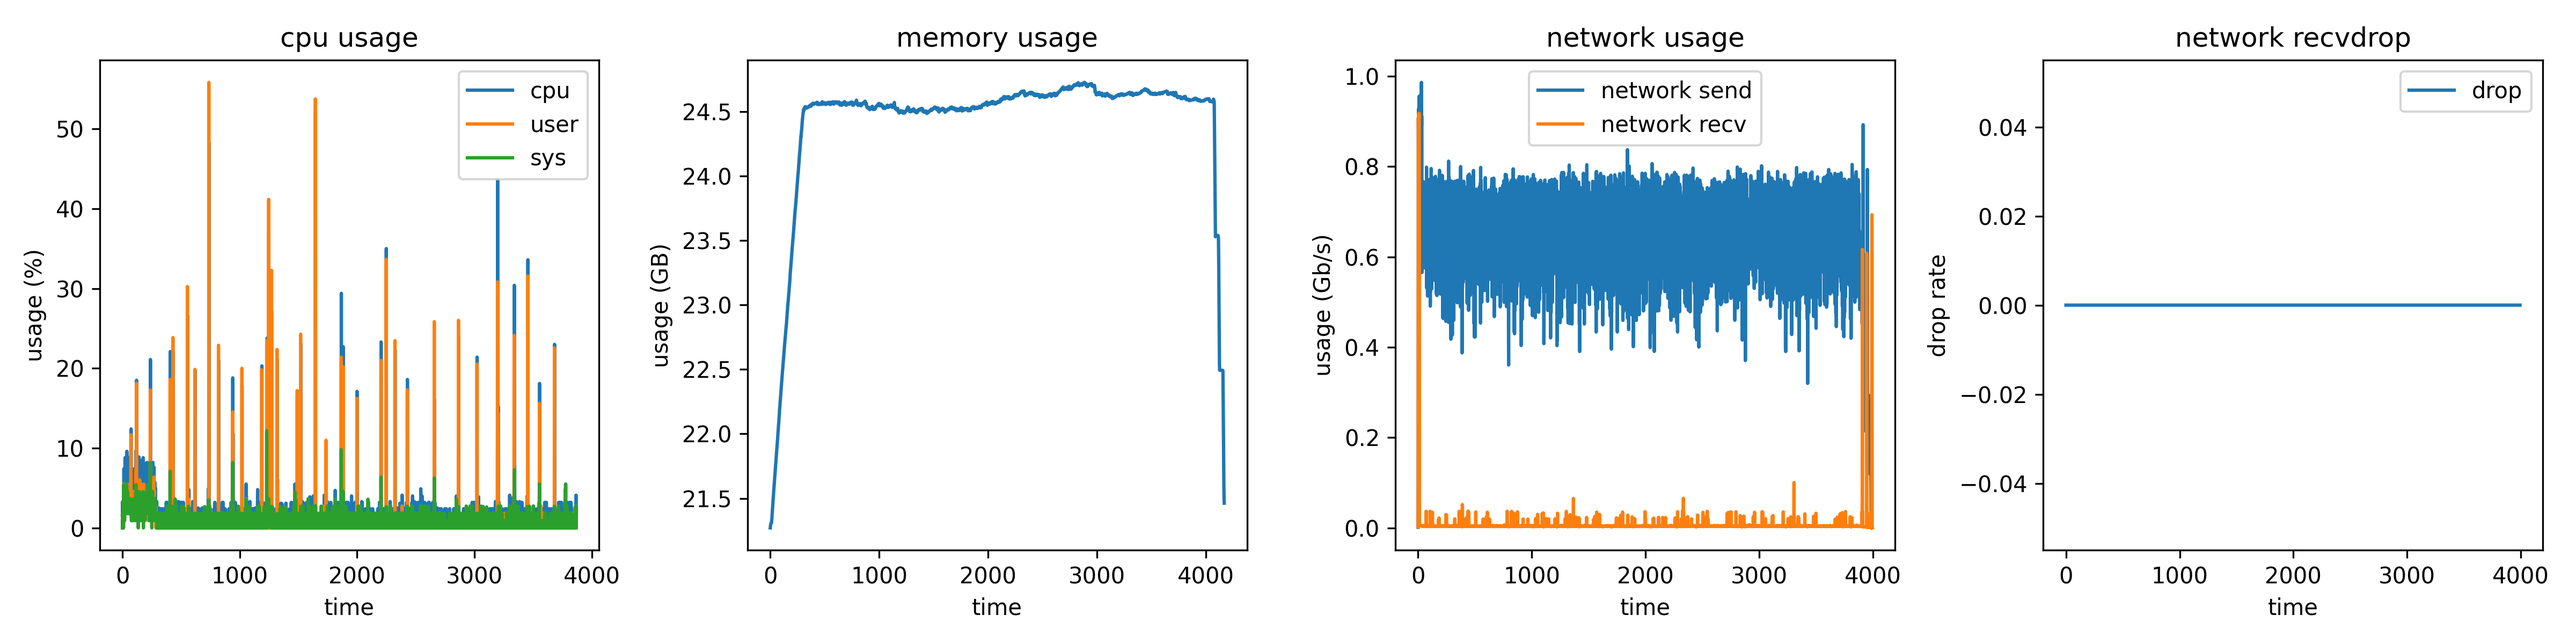
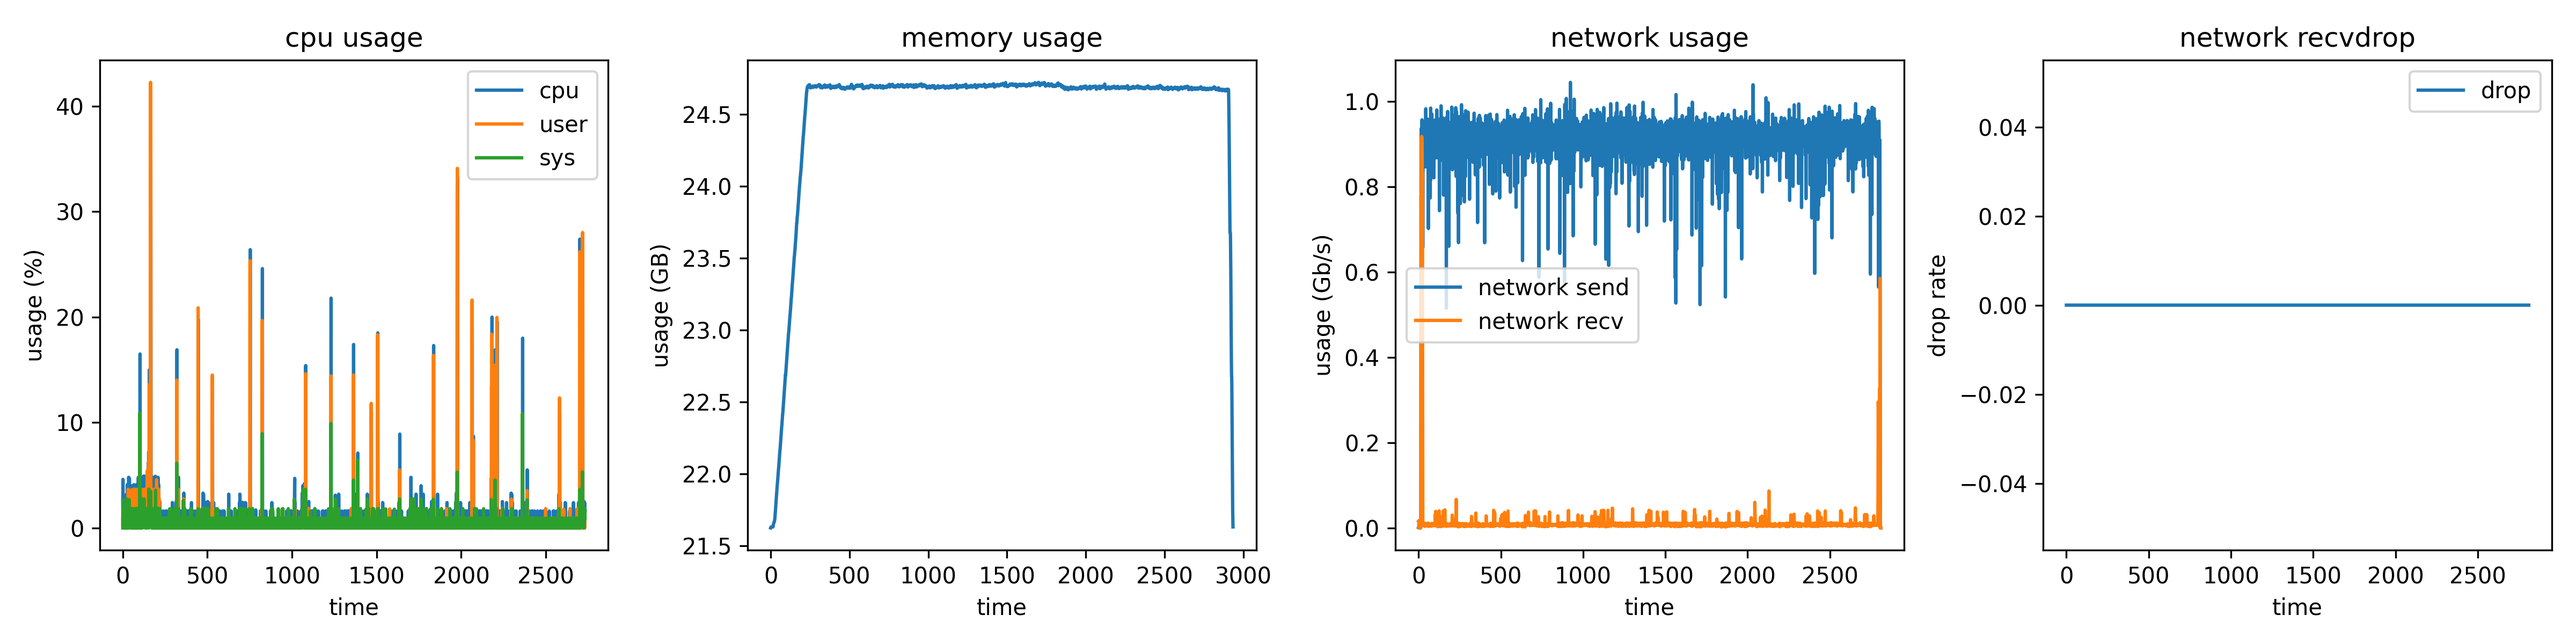
fix mat mul

diff --git a/aby3-Basic/Matrix.cpp b/aby3-Basic/Matrix.cpp
@@ -3,58 +3,66 @@
 using namespace oc;
 using namespace aby3;
 
+// int fixed_matrix_mult(sf64Matrix<D8>& A, sf64Matrix<D8>& B, sf64Matrix<D8>& C, int pIdx, Sh3Encryptor& enc, Sh3Evaluator& eval, Sh3Runtime& runtime) {
+//     if (A.cols() != B.rows() || A.rows() != C.rows() || B.cols() != C.cols()) {
+//         THROW_RUNTIME_ERROR("Matrix dimensions do not match.");
+//     }
+
+//     std::vector<sf64Matrix<D8>> sharedRow(A.rows()),
+//                                 sharedCol(B.cols());
+
+//     for(u64 i = 0; i < A.rows(); ++i) {
+//         sharedRow[i] = sf64Matrix<D8>(A.cols(), 1);
+//         for(u64 j = 0; j < A.cols(); ++j)
+//             sharedRow[i](j, 0, A(i, j));
+//     }
+
+//     for(u64 i = 0; i < B.cols(); ++i) {
+//         sharedCol[i] = sf64Matrix<D8>(A.cols(), 1);
+//         for(u64 j = 0; j < A.cols(); ++j)
+//             sharedCol[i](j, 0, B(j, i));
+//     }
+
+//     for(u64 i = 0; i < A.rows(); ++i)
+//         for(u64 j = 0; j < B.cols(); ++j) {
+//             sf64Matrix<D8> sharedProd;
+//             eval.asyncMul(runtime, sharedRow[i], sharedCol[j], sharedProd).get();
+//             sf64<D8> sum = sharedProd(0, 0);
+//             for(u64 k = 1; k < A.cols(); ++k)
+//                 sum = sum + sharedProd(k, 0);
+//             C(i, j, sum);
+//         }
+    
+//     return 0;
+// }
+
 int fixed_matrix_mult(sf64Matrix<D8>& A, sf64Matrix<D8>& B, sf64Matrix<D8>& C, int pIdx, Sh3Encryptor& enc, Sh3Evaluator& eval, Sh3Runtime& runtime) {
     if (A.cols() != B.rows() || A.rows() != C.rows() || B.cols() != C.cols()) {
         THROW_RUNTIME_ERROR("Matrix dimensions do not match.");
     }
 
-    std::vector<sf64Matrix<D8>> sharedRow(A.rows()),
-                                sharedCol(B.cols());
-
-    for(u64 i = 0; i < A.rows(); ++i) {
-        sharedRow[i] = sf64Matrix<D8>(A.cols(), 1);
-        for(u64 j = 0; j < A.cols(); ++j)
-            sharedRow[i](j, 0, A(i, j));
-    }
-
+    sf64Matrix<D8> paddedA(A.rows() * A.cols(), 1);
     for(u64 i = 0; i < B.cols(); ++i) {
-        sharedCol[i] = sf64Matrix<D8>(A.cols(), 1);
-        for(u64 j = 0; j < A.cols(); ++j)
-            sharedCol[i](j, 0, B(j, i));
-    }
-
-    for(u64 i = 0; i < A.rows(); ++i)
-        for(u64 j = 0; j < B.cols(); ++j) {
-            sf64Matrix<D8> sharedProd;
-            eval.asyncMul(runtime, sharedRow[i], sharedCol[j], sharedProd).get();
-            sf64<D8> sum = sharedProd(0, 0);
-            for(u64 k = 1; k < A.cols(); ++k)
-                sum = sum + sharedProd(k, 0);
-            C(i, j, sum);
-        }
-    
-    return 0;
-}
-
-int fixed_matrix_mult_fault(sf64Matrix<D8>& A, sf64Matrix<D8>& B, sf64Matrix<D8>& C, int pIdx, Sh3Encryptor& enc, Sh3Evaluator& eval, Sh3Runtime& runtime) {
-    if (A.cols() != B.rows() || A.rows() != C.rows() || B.cols() != C.cols()) {
-        THROW_RUNTIME_ERROR("Matrix dimensions do not match.");
-    }
-
-    for(u64 i = 0; i < B.cols(); ++i) {
-        sf64Matrix<D8> repeatCol(A.rows(), A.cols());
+        sf64Matrix<D8> repeatCol(A.rows() * A.cols(), 1);
         for(u64 j = 0; j < A.rows(); ++j)
             for(u64 k = 0; k < A.cols(); ++k)
-                repeatCol(j, k, B(k, i));
+                repeatCol(j * A.cols() + k, 0, B(k, i));
         sf64Matrix<D8> sharedProd;
-        eval.asyncMul(runtime, A, repeatCol, sharedProd).get();
+        // std::cerr << paddedA.rows() << " " << paddedA.cols() << " " << repeatCol.rows() << " " << repeatCol.cols() << std::endl;
+        eval.asyncMul(runtime, paddedA, repeatCol, sharedProd).get();
+        // std::cerr << sharedProd.rows() << " " << sharedProd.cols() << std::endl;
+        // auto start_time = std::chrono::high_resolution_clock::now();
         for(u64 j = 0; j < A.rows(); ++j) {
-            sf64<D8> sum = sharedProd(j, 0);
+            sf64<D8> sum = sharedProd(j * A.cols(), 0);
             for(u64 k = 1; k < A.cols(); ++k)
-                sum = sum + sharedProd(j, k);
+                sum = sum + sharedProd(j * A.cols() + k, 0);
             C(j, i, sum);
         }
+        // auto end_time = std::chrono::high_resolution_clock::now();
+        // tot_time += std::chrono::duration_cast<std::chrono::milliseconds>(end_time - start_time).count();
     }
+    // auto all_end_time = std::chrono::high_resolution_clock::now();
+    // std::cerr << "Total time: " << tot_time << " / " << std::chrono::duration_cast<std::chrono::milliseconds>(all_end_time - all_start_time).count() << std::endl;
     
     return 0;
 }

diff --git a/aby3_tests/MatrixTest.cpp b/aby3_tests/MatrixTest.cpp
@@ -98,44 +98,3 @@ int splitted_fixed_matrix_mult_test(oc::CLP& cmd) {
     
     return 0;
 }
-
-int splitted_fixed_matrix_mult_test_fault(oc::CLP& cmd) {
-
-    SPLITTED_TEST_INIT
-
-    u64 sizeX = cmd.getMany<int>("sizeX")[0],
-        sizeY = cmd.getMany<int>("sizeY")[0],
-        sizeZ = cmd.getMany<int>("sizeZ")[0],
-        numTasks = cmd.getMany<int>("numTasks")[0];
-    
-    u64 l = rank * sizeX / numTasks,
-        r = (rank + 1) * sizeX / numTasks;
-    sizeX = r - l;
-    f64Matrix<D8> A(sizeX, sizeY);
-    for (u64 i = l; i < r; ++i)
-        for (u64 j = 0; j < sizeY; ++j)
-            A(i - l, j) = double(i + 1) / (i + j + 1);
-    
-    f64Matrix<D8> B(sizeY, sizeZ);
-    for (u64 i = 0; i < sizeY; ++i)
-        for (u64 j = 0; j < sizeZ; ++j)
-            B(i, j) = double(i + 1) / (i + j + 1);
-    
-    sf64Matrix<D8> sharedA(sizeX, sizeY),
-                sharedB(sizeY, sizeZ),
-                sharedC(sizeX, sizeZ);
-    if(role == 0) {
-        enc.localFixedMatrix(runtime, A, sharedA).get();
-        enc.localFixedMatrix(runtime, B, sharedB).get();
-    } else {
-        enc.remoteFixedMatrix(runtime, sharedA).get();
-        enc.remoteFixedMatrix(runtime, sharedB).get();
-    }
-
-    fixed_matrix_mult_fault(sharedA, sharedB, sharedC, 0, enc, eval, runtime);
-
-    f64Matrix<D8> C(sizeX, sizeZ);
-    enc.revealAll(runtime, sharedC, C).get();
-    
-    return 0;
-}

diff --git a/aby3_tests/Test.h b/aby3_tests/Test.h
@@ -128,7 +128,7 @@ int odd_even_merge_test(oc::CLP& cmd);
 // matrix multiplication tests
 int fixed_matrix_mult_test(oc::CLP& cmd);
 int splitted_fixed_matrix_mult_test(oc::CLP& cmd);
-int splitted_fixed_matrix_mult_test_fault(oc::CLP& cmd);
+// int splitted_fixed_matrix_mult_test_fault(oc::CLP& cmd);
 
 int correctness_cipher_index_pta(oc::CLP& cmd);
 int correctness_sort_pta(oc::CLP& cmd);

diff --git a/frontend/main.cpp b/frontend/main.cpp
@@ -72,11 +72,7 @@ int main(int argc, char** argv) {
 
 	if(cmd.isSet("Matrix")){
 		if(cmd.isSet("rank")){
-			if(not cmd.isSet("fault")) {
-				splitted_fixed_matrix_mult_test(cmd);
-			} else {
-				splitted_fixed_matrix_mult_test_fault(cmd);
-			}
+			splitted_fixed_matrix_mult_test(cmd);
 		} else {
 			fixed_matrix_mult_test(cmd);
 		}
